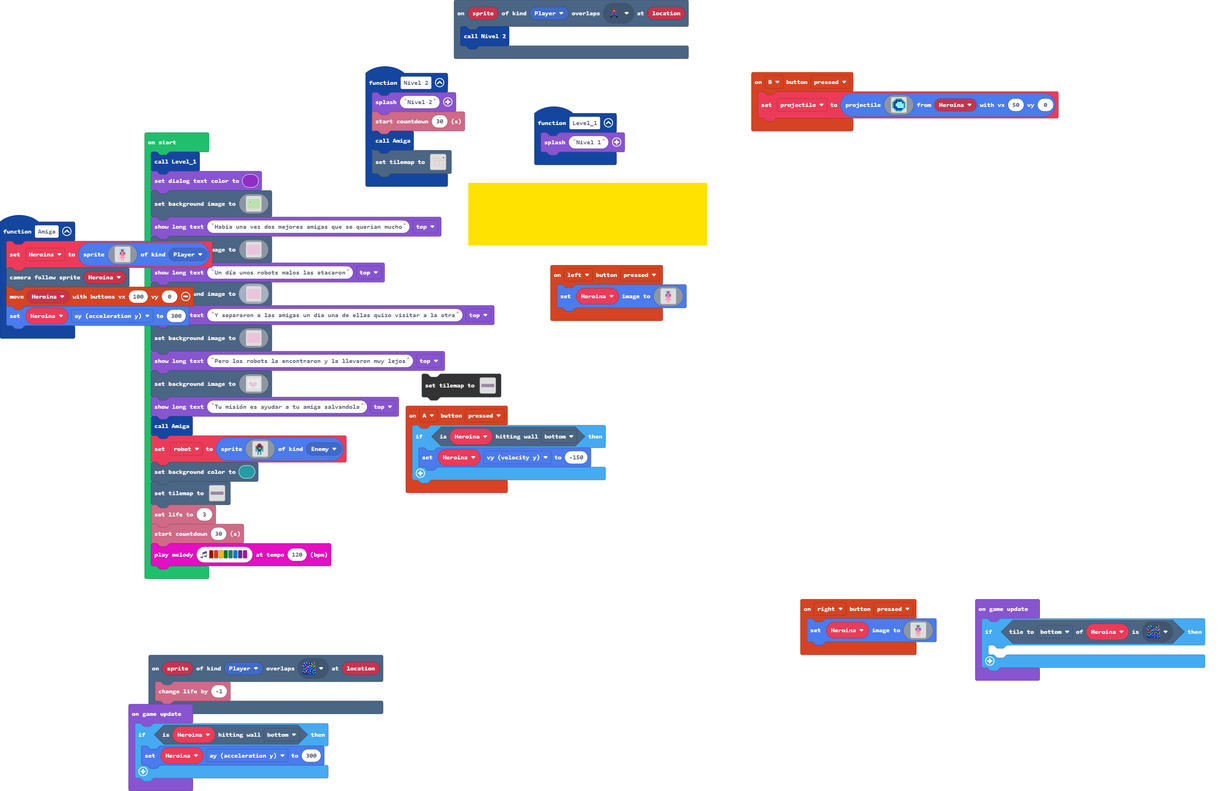
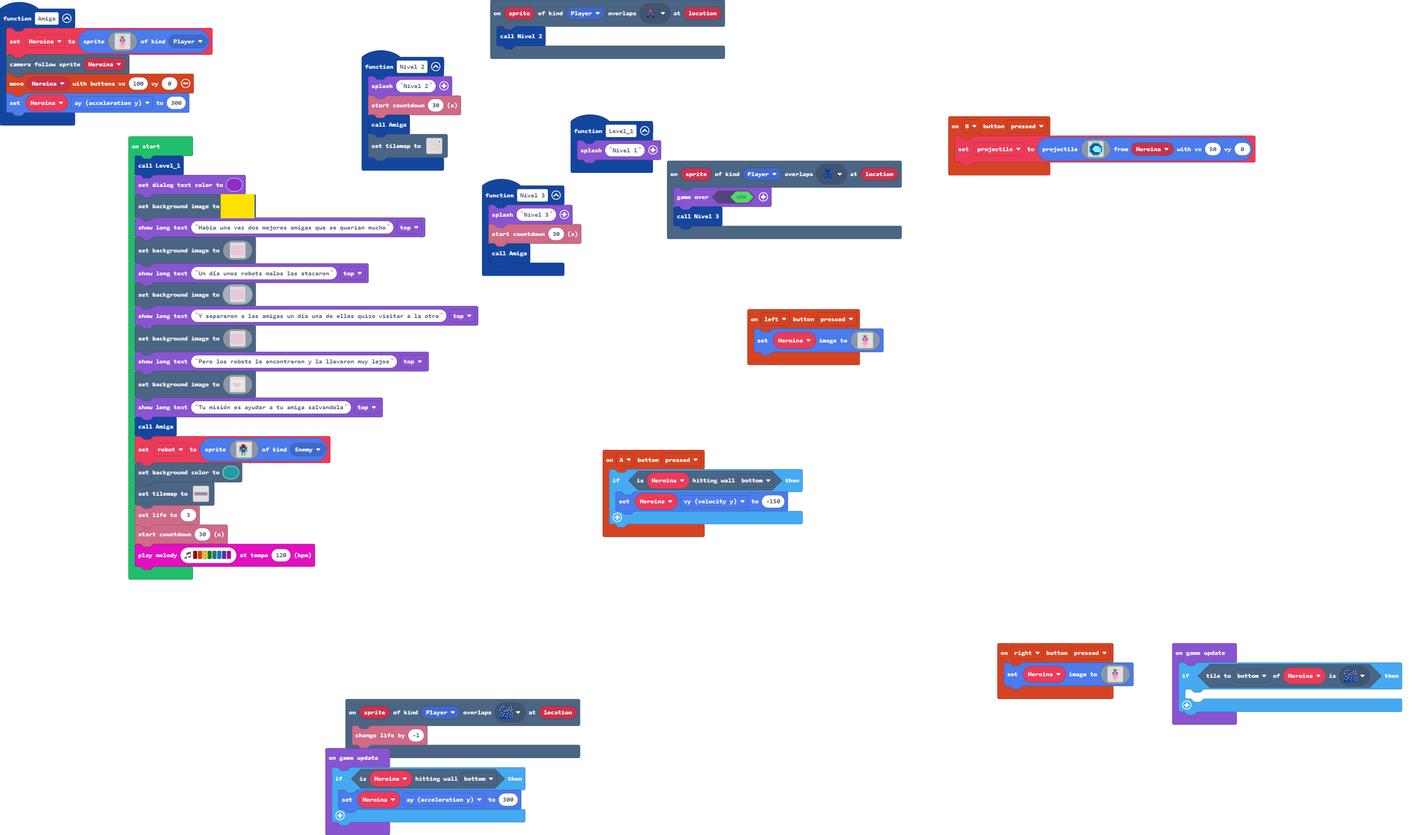
elimine y puse bloques

Changed region(s): [[0.0, 0.0, 0.9033, 0.7439], [0.0934, 0.8059, 0.4049, 1.0], [0.6541, 0.7439, 0.9967, 0.8679]]

diff --git a/main.ts b/main.ts
@@ -4,6 +4,7 @@ namespace SpriteKind {
 }
 scene.onOverlapTile(SpriteKind.Player, myTiles.tile2, function (sprite, location) {
     game.over(true)
+    Nivel_3()
 })
 scene.onOverlapTile(SpriteKind.Player, myTiles.tile3, function (sprite, location) {
     Nivel_2()
@@ -141,6 +142,11 @@ function Nivel_2 () {
         . . . . . . . . . . . . . . . . 
         `, [myTiles.transparency16,sprites.castle.tilePath5,myTiles.tile2], TileScale.Sixteen))
 }
+function Nivel_3 () {
+    game.splash("Nivel 3")
+    info.startCountdown(30)
+    Amiga()
+}
 let Heroina: Sprite = null
 let projectile: Sprite = null
 Level_1()
@@ -198,63 +204,63 @@ scene.setBackgroundImage(img`
     7 7 7 7 7 7 7 7 7 7 7 7 7 7 7 9 9 9 9 9 7 7 7 7 7 7 7 7 7 7 7 7 4 4 4 4 4 4 4 4 4 4 4 7 7 7 7 7 7 7 9 9 9 9 9 9 9 9 9 7 7 7 7 7 7 7 7 7 7 7 7 7 7 7 7 7 7 7 7 7 7 7 7 7 7 7 7 7 7 7 7 7 7 7 7 7 7 7 7 7 7 7 7 7 7 7 7 7 7 7 7 7 7 7 7 7 7 7 7 7 7 7 7 7 7 7 7 7 7 7 7 7 7 7 7 7 7 7 7 7 7 7 7 7 7 7 7 7 7 7 7 7 7 7 7 7 7 7 7 7 
     7 7 7 7 7 7 7 7 7 7 7 7 7 7 7 9 9 9 9 9 7 7 7 7 7 7 7 7 7 7 7 7 4 4 4 4 4 4 4 4 4 4 4 7 7 7 7 7 7 7 7 7 7 7 9 9 9 9 9 7 7 7 7 7 7 7 7 7 7 7 7 7 7 7 7 7 7 7 7 7 7 7 7 7 7 7 7 7 7 7 7 7 7 7 7 7 7 7 7 7 7 7 7 7 7 7 7 7 7 7 7 7 7 7 7 7 7 7 7 7 7 7 7 7 7 7 7 7 7 7 7 7 7 7 7 7 7 7 7 7 7 7 7 7 7 7 7 7 7 7 7 7 7 7 7 7 7 7 7 7 
     7 7 7 7 7 7 7 7 7 7 7 7 7 7 7 9 9 9 9 9 7 7 7 7 7 7 7 7 7 7 7 7 4 4 4 4 4 4 4 4 4 4 4 7 7 7 7 7 7 7 7 7 7 7 9 9 9 9 9 7 7 7 7 7 7 7 7 7 7 7 7 7 7 7 7 7 7 7 7 7 7 7 7 7 7 7 7 7 7 7 7 7 7 7 7 7 7 7 7 7 7 7 7 7 7 7 7 7 7 7 7 7 7 7 7 7 7 7 7 7 7 7 7 7 7 7 7 7 7 7 7 7 7 7 7 7 7 7 7 7 7 7 7 7 7 7 7 7 7 7 7 7 7 7 7 7 7 7 7 7 
-    7 7 7 7 7 7 7 7 7 7 7 7 7 7 7 9 9 9 9 9 7 7 7 7 7 7 7 7 7 7 7 7 3 3 3 3 3 3 3 3 3 3 3 7 7 7 7 7 7 7 7 7 7 7 9 9 9 9 9 7 7 7 7 7 7 7 7 7 7 7 7 7 7 7 7 7 7 7 7 7 7 7 7 7 7 7 7 7 7 7 7 7 7 7 7 7 7 7 7 7 7 7 7 7 7 7 7 7 7 7 7 7 7 7 7 7 7 7 7 7 7 7 7 7 7 7 7 7 7 7 7 7 7 7 7 7 7 7 7 7 7 7 7 7 7 7 7 7 7 7 7 7 7 7 7 7 7 7 7 7 
-    7 7 7 7 7 7 7 7 7 7 7 7 7 7 7 7 7 7 7 7 7 7 7 7 7 7 7 7 7 7 7 7 3 3 3 3 3 3 3 3 3 3 3 7 7 7 7 7 7 7 7 7 7 7 9 9 9 9 9 7 7 7 7 7 7 7 7 7 7 7 7 7 7 7 7 7 7 7 7 7 7 7 7 7 7 7 7 7 7 7 7 7 7 7 7 7 7 7 7 7 7 7 7 7 7 7 7 7 7 7 7 7 7 7 7 7 7 7 7 7 7 7 7 7 7 7 7 7 7 7 7 7 7 7 7 7 7 7 7 7 7 7 7 7 7 7 7 7 7 7 7 7 7 7 7 7 7 7 7 7 
-    7 7 7 7 7 7 7 7 7 7 7 7 7 7 7 7 7 7 7 7 7 7 7 7 7 7 7 7 7 7 7 7 3 3 3 3 3 3 3 3 3 3 3 7 7 7 7 7 7 7 7 7 7 7 7 7 7 7 7 7 7 7 7 7 7 7 7 7 7 7 7 7 7 7 7 7 7 7 7 7 7 7 7 7 7 7 7 7 7 7 7 7 7 7 7 7 7 7 7 7 7 7 7 7 7 7 7 7 7 7 7 7 7 7 7 7 7 7 7 7 7 7 7 7 7 7 7 7 7 7 7 7 7 7 7 7 7 7 7 7 7 7 7 7 7 7 7 7 7 7 7 7 7 7 7 7 7 7 7 7 
-    7 7 7 7 7 7 7 7 7 7 7 7 7 7 7 7 7 7 7 7 7 7 7 7 7 7 7 7 7 7 7 7 3 3 3 3 3 3 3 3 3 3 3 7 7 7 7 7 7 7 7 7 7 7 7 7 7 7 7 7 7 7 7 7 7 7 7 7 7 7 7 7 7 7 7 7 7 7 7 7 7 7 7 7 7 7 7 7 7 7 7 7 7 7 7 7 7 7 7 7 7 7 7 7 7 7 7 7 7 7 7 7 7 7 7 7 7 7 7 7 7 7 7 7 7 7 7 7 7 7 7 7 7 7 7 7 7 7 7 7 7 7 7 7 7 7 7 7 7 7 7 7 7 7 7 7 7 7 7 7 
-    7 7 7 7 7 7 7 7 7 7 7 7 7 7 7 7 7 7 7 7 7 7 7 7 7 7 7 7 7 7 7 7 3 3 3 3 3 3 3 3 3 3 3 7 7 7 7 7 7 7 7 7 7 7 7 7 7 7 7 7 7 7 7 7 7 7 7 7 7 7 7 7 7 7 7 7 7 7 7 7 7 7 7 7 7 7 7 7 7 7 7 7 7 7 7 7 7 7 7 7 7 7 7 7 7 7 7 7 7 7 7 7 7 7 7 7 7 7 7 7 7 7 7 7 7 7 7 7 7 7 7 7 7 7 7 7 7 7 7 7 7 7 7 7 7 7 7 7 7 7 7 7 7 7 7 7 7 7 7 7 
-    7 7 7 7 7 7 7 7 7 7 7 7 7 7 7 7 7 7 7 7 7 7 7 7 7 7 7 7 7 7 7 7 3 3 3 3 3 3 3 3 3 3 3 7 7 7 7 7 7 7 7 7 7 7 7 7 7 7 7 7 7 7 7 7 7 7 7 7 7 7 7 7 7 7 7 7 7 7 7 7 7 7 7 7 7 7 7 7 7 7 7 7 7 7 7 7 7 7 7 7 7 7 7 7 7 7 7 7 7 7 7 7 7 7 7 7 7 7 7 7 7 7 7 7 7 7 7 7 7 7 7 7 7 7 7 7 7 7 7 7 7 7 7 7 7 7 7 7 7 7 7 7 7 7 7 7 7 7 7 7 
-    7 7 7 7 7 7 7 7 7 7 7 7 7 7 7 7 7 7 7 7 7 7 7 7 7 7 7 7 7 7 7 7 3 3 3 3 3 3 3 3 3 3 3 7 7 7 7 7 7 7 7 7 7 7 7 7 7 7 7 7 7 7 7 7 7 7 7 7 7 7 7 7 7 7 7 7 7 7 7 7 7 7 7 7 7 7 7 7 7 7 7 7 7 7 7 7 7 7 7 7 7 7 7 7 7 7 7 7 7 7 7 7 7 7 7 7 7 7 7 7 7 7 7 7 7 7 7 7 7 7 7 7 7 7 7 7 7 7 7 7 7 7 7 7 7 7 7 7 7 7 7 7 7 7 7 7 7 7 7 7 
-    7 7 7 7 7 7 7 7 7 7 7 7 7 7 7 7 7 7 7 7 7 7 7 7 7 7 7 7 7 7 7 7 3 3 3 3 3 3 3 3 3 3 3 7 7 7 7 7 7 7 7 7 7 7 7 7 7 7 7 7 7 7 7 7 7 7 7 7 7 7 7 7 7 7 7 7 7 7 7 7 7 7 7 7 7 7 7 7 7 7 7 7 7 7 7 7 7 7 7 7 7 7 7 7 7 7 7 7 7 7 7 7 7 7 7 7 7 7 7 7 7 7 7 7 7 7 7 7 7 7 7 7 7 7 7 7 7 7 7 7 7 7 7 7 7 7 7 7 7 7 7 7 7 7 7 7 7 7 7 7 
-    7 7 7 7 7 7 7 7 7 7 7 7 7 7 7 7 7 7 7 7 7 7 7 7 7 7 7 7 7 7 7 7 3 3 3 3 3 3 3 3 3 3 3 7 7 7 7 7 7 7 7 7 7 7 7 7 7 7 7 7 7 7 7 7 7 7 7 7 7 7 7 7 7 7 7 7 7 7 7 7 7 7 7 7 7 7 7 7 7 7 7 7 7 7 7 7 7 7 7 7 7 7 7 7 7 7 7 7 7 7 7 7 7 7 7 7 7 7 7 7 7 7 7 7 7 7 7 7 7 7 7 7 7 7 7 7 7 7 7 7 7 7 7 7 7 7 7 7 7 7 7 7 7 7 7 7 7 7 7 7 
-    7 7 7 7 7 7 7 7 7 7 7 7 7 7 7 7 7 7 7 7 7 7 7 7 7 7 7 7 7 7 7 7 3 3 3 3 3 3 3 3 3 3 3 7 7 7 7 7 7 7 7 7 7 7 7 7 7 7 7 7 7 7 7 7 7 7 7 7 7 7 7 7 7 7 7 7 7 7 7 7 7 7 7 7 7 7 7 7 7 7 7 7 7 7 7 7 7 7 7 7 7 7 7 7 7 7 7 7 7 7 7 7 7 7 7 7 7 7 7 7 7 7 7 7 7 7 7 7 7 7 7 7 7 7 7 7 7 7 7 7 7 7 7 7 7 7 7 7 7 7 7 7 7 7 7 7 7 7 7 7 
-    7 7 7 7 7 7 7 7 7 7 7 7 7 7 7 7 7 7 7 7 7 7 7 7 7 7 7 7 7 7 7 7 3 3 3 3 3 3 3 3 3 3 3 7 7 7 7 7 7 7 7 7 7 7 7 7 7 7 7 7 7 7 7 7 7 7 7 7 7 7 7 7 7 7 7 7 7 7 7 7 7 7 7 7 7 7 7 7 7 7 7 7 7 7 7 7 7 7 7 7 7 7 7 7 7 7 7 7 7 7 7 7 7 7 7 7 7 7 7 7 7 7 7 7 7 7 7 7 7 7 7 7 7 7 7 7 7 7 7 7 7 7 7 7 7 7 7 7 7 7 7 7 7 7 7 7 7 7 7 7 
-    7 7 7 7 7 7 7 7 7 7 7 7 7 7 7 7 7 7 7 7 7 7 7 7 7 7 7 7 7 7 7 7 3 3 3 3 3 3 3 3 3 3 3 7 7 7 7 7 7 7 7 7 7 7 7 7 7 7 7 7 7 7 7 7 7 7 7 7 7 7 7 7 7 7 7 7 7 7 7 7 7 7 7 7 7 7 7 7 7 7 7 7 7 7 7 7 7 7 7 7 7 7 7 7 7 7 7 7 7 7 7 7 7 7 7 7 7 7 7 7 7 7 7 7 7 7 7 7 7 7 7 7 7 7 7 7 7 7 7 7 7 7 7 7 7 7 7 7 7 7 7 7 7 7 7 7 7 7 7 7 
-    7 7 7 7 7 7 7 7 7 7 7 7 7 7 7 7 7 7 7 7 7 7 7 7 7 7 7 7 7 7 7 7 3 3 3 3 3 3 3 3 3 3 3 7 7 7 7 7 7 7 7 7 7 7 7 7 7 7 7 7 7 7 7 7 7 7 7 7 7 7 7 7 7 7 7 7 7 7 7 7 7 7 7 7 7 7 7 7 7 7 7 7 7 7 7 7 7 7 7 7 7 7 7 7 7 7 7 7 7 7 7 7 7 7 7 7 7 7 7 7 7 7 7 7 7 7 7 7 7 7 7 7 7 7 7 7 7 7 7 7 7 7 7 7 7 7 7 7 7 7 7 7 7 7 7 7 7 7 7 7 
-    7 7 7 7 7 7 7 7 7 7 7 7 7 7 7 7 7 7 7 7 7 7 7 7 7 7 7 7 7 7 7 7 3 3 3 3 3 3 3 3 3 3 3 7 7 7 7 7 7 7 7 7 7 7 7 7 7 7 7 7 7 7 7 7 7 7 7 7 7 7 7 7 7 7 7 7 7 7 7 7 7 7 7 7 7 7 7 7 7 7 7 7 7 7 7 7 7 7 7 7 7 7 7 7 7 7 7 7 7 7 7 7 7 7 7 7 7 7 7 7 7 7 7 7 7 7 7 7 7 7 7 7 7 7 7 7 7 7 7 7 7 7 7 7 7 7 7 7 7 7 7 7 7 7 7 7 7 7 7 7 
-    7 7 7 7 7 7 7 7 7 7 7 7 7 7 7 7 7 7 7 7 7 7 7 7 7 7 7 7 7 7 7 7 3 3 3 3 3 3 3 3 3 3 3 7 7 7 7 7 7 7 7 7 7 7 7 7 7 7 7 7 7 7 7 7 7 7 7 7 7 7 7 7 7 7 7 7 7 7 7 7 7 7 7 7 7 7 7 7 7 7 7 7 7 7 7 7 7 7 7 7 7 7 7 7 7 7 7 7 7 7 7 7 7 7 7 7 7 7 7 7 7 7 7 7 7 7 7 7 7 7 7 7 7 7 7 7 7 7 7 7 7 7 7 7 7 7 7 7 7 7 7 7 7 7 7 7 7 7 7 7 
-    7 7 7 7 7 7 7 7 7 7 7 7 7 7 7 7 7 7 7 7 7 7 7 7 7 7 7 7 7 7 7 7 3 3 3 3 3 3 3 3 3 3 3 7 7 7 7 7 7 7 7 7 7 7 7 7 7 7 7 7 7 7 7 7 7 7 7 7 7 7 7 7 7 7 7 7 7 7 7 7 7 7 7 7 7 7 7 7 7 7 7 7 7 7 7 7 7 7 7 7 7 7 7 7 7 7 7 7 7 7 7 7 7 7 7 7 7 7 7 7 7 7 7 7 7 7 7 7 7 7 7 7 7 7 7 7 7 7 7 7 7 7 7 7 7 7 7 7 7 7 7 7 7 7 7 7 7 7 7 7 
-    7 7 7 7 7 7 7 7 7 7 7 7 7 7 7 7 7 7 7 7 7 7 7 7 7 7 7 7 7 7 7 7 3 3 3 3 3 3 3 3 3 3 3 7 7 7 7 7 7 7 7 7 7 7 7 7 7 7 7 7 7 7 7 7 7 7 7 7 7 7 7 7 7 7 7 7 7 7 7 7 7 7 7 7 7 7 7 7 7 7 7 7 7 7 7 7 7 7 7 7 7 7 7 7 7 7 7 7 7 7 7 7 7 7 7 7 7 7 7 7 7 7 7 7 7 7 7 7 7 7 7 7 7 7 7 7 7 7 7 7 7 7 7 7 7 7 7 7 7 7 7 7 7 7 7 7 7 7 7 7 
-    7 7 7 7 7 7 7 7 7 7 7 7 7 7 7 7 7 7 7 7 7 7 7 7 7 7 7 7 7 7 7 7 3 3 3 3 3 3 3 3 3 3 3 7 7 7 7 7 7 7 7 7 7 7 7 7 7 7 7 7 7 7 7 7 7 7 7 7 7 7 7 7 7 7 7 7 7 7 7 7 7 7 7 7 7 7 7 7 7 7 7 7 7 7 7 7 7 7 7 7 7 7 7 7 7 7 7 7 7 7 7 7 7 7 7 7 7 7 7 7 7 7 7 7 7 7 7 7 7 7 7 7 7 7 7 7 7 7 7 7 7 7 7 7 7 7 7 7 7 7 7 7 7 7 7 7 7 7 7 7 
-    7 7 7 7 7 7 7 7 7 7 7 7 7 7 7 7 7 7 7 7 7 7 7 7 7 7 7 7 7 7 7 7 3 3 3 3 3 3 3 3 3 3 3 7 7 7 7 7 7 7 7 7 7 7 7 7 7 7 7 7 7 7 7 7 7 7 7 7 7 7 7 7 7 7 7 7 7 7 7 7 7 7 7 7 7 7 7 7 7 7 7 7 7 7 7 7 7 7 7 7 7 7 7 7 7 7 7 7 7 7 7 7 7 7 7 7 7 7 7 7 7 7 7 7 7 7 7 7 7 7 7 7 7 7 7 7 7 7 7 7 7 7 7 7 7 7 7 7 7 7 7 7 7 7 7 7 7 7 7 7 
-    7 7 7 7 7 7 7 7 7 7 7 7 7 7 7 7 7 7 7 7 7 7 7 7 7 7 7 7 7 7 7 7 3 3 3 3 3 3 3 3 3 3 3 7 7 7 7 7 7 7 7 7 7 7 7 7 7 7 7 7 7 7 7 7 7 7 7 7 7 7 7 7 7 7 7 7 7 7 7 7 7 7 7 7 7 7 7 7 7 7 7 7 7 7 7 7 7 7 7 7 7 7 7 7 7 7 7 7 7 7 7 7 7 7 7 7 7 7 7 7 7 7 7 7 7 7 7 7 7 7 7 7 7 7 7 7 7 7 7 7 7 7 7 7 7 7 7 7 7 7 7 7 7 7 7 7 7 7 7 7 
-    7 7 7 7 7 7 7 7 7 7 7 7 7 7 7 7 7 7 7 7 7 7 7 7 7 7 7 7 7 7 7 7 3 3 3 3 3 3 3 3 3 3 3 7 7 7 7 7 7 7 7 7 7 7 7 7 7 7 7 7 7 7 7 7 7 7 7 7 7 7 7 7 7 7 7 7 7 7 7 7 7 7 7 7 7 7 7 7 7 7 7 7 7 7 7 7 7 7 7 7 7 7 7 7 7 7 7 7 7 7 7 7 7 7 7 7 7 7 7 7 7 7 7 7 7 7 7 7 7 7 7 7 7 7 7 7 7 7 7 7 7 7 7 7 7 7 7 7 7 7 7 7 7 7 7 7 7 7 7 7 
-    7 7 7 7 7 7 7 7 7 7 7 7 7 7 7 7 7 7 7 7 7 7 7 7 7 7 7 7 7 7 7 7 3 3 3 3 3 3 3 3 3 3 3 7 7 7 7 7 7 7 7 7 7 7 7 7 7 7 7 7 7 7 7 7 7 7 7 7 7 7 7 7 7 7 7 7 7 7 7 7 7 7 7 7 7 7 7 7 7 7 7 7 7 7 7 7 7 7 7 7 7 7 7 7 7 7 7 7 7 7 7 7 7 7 7 7 7 7 7 7 7 7 7 7 7 7 7 7 7 7 7 7 7 7 7 7 7 7 7 7 7 7 7 7 7 7 7 7 7 7 7 7 7 7 7 7 7 7 7 7 
-    7 7 7 7 7 7 7 7 7 7 7 7 7 7 7 7 7 7 7 7 7 7 7 7 7 7 7 7 7 7 7 7 3 3 3 3 3 3 3 3 3 3 3 7 7 7 7 7 7 7 7 7 7 7 7 7 7 7 7 7 7 7 7 7 7 7 7 7 7 7 7 7 7 7 7 7 7 7 7 7 7 7 7 7 7 7 7 7 7 7 7 7 7 7 7 7 7 7 7 7 7 7 7 7 7 7 7 7 7 7 7 7 7 7 7 7 7 7 7 7 7 7 7 7 7 7 7 7 7 7 7 7 7 7 7 7 7 7 7 7 7 7 7 7 7 7 7 7 7 7 7 7 7 7 7 7 7 7 7 7 
-    7 7 7 7 7 7 7 7 7 7 7 7 7 7 7 7 7 7 7 7 7 7 7 7 7 7 7 7 7 7 7 7 3 3 3 3 3 3 3 3 3 3 3 7 7 7 7 7 7 7 7 7 7 7 7 7 7 7 7 7 7 7 7 7 7 7 7 7 7 7 7 7 7 7 7 7 7 7 7 7 7 7 7 7 7 7 7 7 7 7 7 7 7 7 7 7 7 7 7 7 7 7 7 7 7 7 7 7 7 7 7 7 7 7 7 7 7 7 7 7 7 7 7 7 7 7 7 7 7 7 7 7 7 7 7 7 7 7 7 7 7 7 7 7 7 7 7 7 7 7 7 7 7 7 7 7 7 7 7 7 
-    7 7 7 7 7 7 7 7 7 7 7 7 7 7 7 7 7 7 7 7 7 7 7 7 7 7 7 7 7 7 7 7 7 7 7 7 7 7 7 7 7 7 7 7 7 7 7 7 7 7 7 7 7 7 7 7 7 7 7 7 7 7 7 7 7 7 7 7 7 7 7 7 7 7 7 7 7 7 7 7 7 7 7 7 7 7 7 7 7 7 7 7 7 7 7 7 7 7 7 7 7 7 7 7 7 7 7 7 7 7 7 7 7 7 7 7 7 7 7 7 7 7 7 7 7 7 7 7 7 7 7 7 7 7 7 7 7 7 7 7 7 7 7 7 7 7 7 7 7 7 7 7 7 7 7 7 7 7 7 7 
-    7 7 7 7 7 7 7 7 7 7 7 7 7 7 7 7 7 7 7 7 7 7 7 7 7 7 7 7 7 7 7 7 7 7 7 7 7 7 7 7 7 7 7 7 7 7 7 7 7 7 7 7 7 7 7 7 7 7 7 7 7 7 7 7 7 7 7 7 7 7 7 7 7 7 7 7 7 7 7 7 7 7 7 7 7 7 7 7 7 7 7 7 7 7 7 7 7 7 7 7 7 7 7 7 7 7 7 7 7 7 7 7 7 7 7 7 7 7 7 7 7 7 7 7 7 7 7 7 7 7 7 7 7 7 7 7 7 7 7 7 7 7 7 7 7 7 7 7 7 7 7 7 7 7 7 7 7 7 7 7 
-    7 7 7 7 7 7 7 7 7 7 7 7 7 7 7 7 7 7 7 7 7 7 7 7 7 7 7 7 7 7 7 7 7 7 7 7 7 7 7 7 7 7 7 7 7 7 7 7 7 7 7 7 7 7 7 7 7 7 7 7 7 7 7 7 7 7 7 7 7 7 7 7 7 7 7 7 7 7 7 7 7 7 7 7 7 7 7 7 7 7 7 7 7 7 7 7 7 7 7 7 7 7 7 7 7 7 7 7 7 7 7 7 7 7 7 7 7 7 7 7 7 7 7 7 7 7 7 7 7 7 7 7 7 7 7 7 7 7 7 7 7 7 7 7 7 7 7 7 7 7 7 7 7 7 7 7 7 7 7 7 
-    7 7 7 7 7 7 7 7 7 7 7 7 7 7 7 7 7 7 7 7 7 7 7 7 7 7 7 7 7 7 7 7 7 7 7 7 7 7 7 7 7 7 7 7 7 7 7 7 7 7 7 7 7 7 7 7 7 7 7 7 7 7 7 7 7 7 7 7 7 7 7 7 7 7 7 7 7 7 7 7 7 7 7 7 7 7 7 7 7 7 7 7 7 7 7 7 7 7 7 7 7 7 7 7 7 7 7 7 7 7 7 7 7 7 7 7 7 7 7 7 7 7 7 7 7 7 7 7 7 7 7 7 7 7 7 7 7 7 7 7 7 7 7 7 7 7 7 7 7 7 7 7 7 7 7 7 7 7 7 7 
-    7 7 7 7 7 7 7 7 7 7 7 7 7 7 7 7 7 7 7 7 7 7 7 7 7 7 7 7 7 7 7 7 7 7 7 7 7 7 7 7 7 7 7 7 7 7 7 7 7 7 7 7 7 7 7 7 7 7 7 7 7 7 7 7 7 7 7 7 7 7 7 7 7 7 7 7 7 7 7 7 7 7 7 7 7 7 7 7 7 7 7 7 7 7 7 7 7 7 7 7 7 7 7 7 7 7 7 7 7 7 7 7 7 7 7 7 7 7 7 7 7 7 7 7 7 7 7 7 7 7 7 7 7 7 7 7 7 7 7 7 7 7 7 7 7 7 7 7 7 7 7 7 7 7 7 7 7 7 7 7 
-    7 7 7 7 7 7 7 7 7 7 7 7 7 7 7 7 7 7 7 7 7 7 7 7 7 7 7 7 7 7 7 7 7 7 7 7 7 7 7 7 7 7 7 7 7 7 7 7 7 7 7 7 7 7 7 7 7 7 7 7 7 7 7 7 7 7 7 7 7 7 7 7 7 7 7 7 7 7 7 7 7 7 7 7 7 7 7 7 7 7 7 7 7 7 7 7 7 7 7 7 7 7 7 7 7 7 7 7 7 7 7 7 7 7 7 7 7 7 7 7 7 7 7 7 7 7 7 7 7 7 7 7 7 7 7 7 7 7 7 7 7 7 7 7 7 7 7 7 7 7 7 7 7 7 7 7 7 7 7 7 
-    7 7 7 7 7 7 7 7 7 7 7 7 7 7 7 7 7 7 7 7 7 7 7 7 7 7 7 7 7 7 7 7 7 7 7 7 7 7 7 7 7 7 7 7 7 7 7 7 7 7 7 7 7 7 7 7 7 7 7 7 7 7 7 7 7 7 7 7 7 7 7 7 7 7 7 7 7 7 7 7 7 7 7 7 7 7 7 7 7 7 7 7 7 7 7 7 7 7 7 7 7 7 7 7 7 7 7 7 7 7 7 7 7 7 7 7 7 7 7 7 7 7 7 7 7 7 7 7 7 7 7 7 7 7 7 7 7 7 7 7 7 7 7 7 7 7 7 7 7 7 7 7 7 7 7 7 7 7 7 7 
-    7 7 7 7 7 7 7 7 7 7 7 7 7 7 7 7 7 7 7 7 7 7 7 7 7 7 7 7 7 7 7 7 7 7 7 7 7 7 7 7 7 7 7 7 7 7 7 7 7 7 7 7 7 7 7 7 7 7 7 7 7 7 7 7 7 7 7 7 7 7 7 7 7 7 7 7 7 7 7 7 7 7 7 7 7 7 7 7 7 7 7 7 7 7 7 7 7 7 7 7 7 7 7 7 7 7 7 7 7 7 7 7 7 7 7 7 7 7 7 7 7 7 7 7 7 7 7 7 7 7 7 7 7 7 7 7 7 7 7 7 7 7 7 7 7 7 7 7 7 7 7 7 7 7 7 7 7 7 7 7 
-    7 7 7 7 7 7 7 7 7 7 7 7 7 7 7 7 7 7 7 7 7 7 7 7 7 7 7 7 7 7 7 7 7 7 7 7 7 7 7 7 7 7 7 7 7 7 7 7 7 7 7 7 7 7 7 7 7 7 7 7 7 7 7 7 7 7 7 7 7 7 7 7 7 7 7 7 7 7 7 7 7 7 7 7 7 7 7 7 7 7 7 7 7 7 7 7 7 7 7 7 7 7 7 7 7 7 7 7 7 7 7 7 7 7 7 7 7 7 7 7 7 7 7 7 7 7 7 7 7 7 7 7 7 7 7 7 7 7 7 7 7 7 7 7 7 7 7 7 7 7 7 7 7 7 7 7 7 7 7 7 
-    7 7 7 7 7 7 7 7 7 7 7 7 7 7 7 7 7 7 7 7 7 7 7 7 7 7 7 7 7 7 7 7 7 7 7 7 7 7 7 7 7 7 7 7 7 7 7 7 7 7 7 7 7 7 7 7 7 7 7 7 7 7 7 7 7 7 7 7 7 7 7 7 7 7 7 7 7 7 7 7 7 7 7 7 7 7 7 7 7 7 7 7 7 7 7 7 7 7 7 7 7 7 7 7 7 7 7 7 7 7 7 7 7 7 7 7 7 7 7 7 7 7 7 7 7 7 7 7 7 7 7 7 7 7 7 7 7 7 7 7 7 7 7 7 7 7 7 7 7 7 7 7 7 7 7 7 7 7 7 7 
-    7 7 7 7 7 7 7 7 7 7 7 7 7 7 7 7 7 7 7 7 7 7 7 7 7 7 7 7 7 7 7 7 7 7 7 7 7 7 7 7 7 7 7 7 7 7 7 7 7 7 7 7 7 7 7 7 7 7 7 7 7 7 7 7 7 7 7 7 7 7 7 7 7 7 7 7 7 7 7 7 7 7 7 7 7 7 7 7 7 7 7 7 7 7 7 7 7 7 7 7 7 7 7 7 7 7 7 7 7 7 7 7 7 7 7 7 7 7 7 7 7 7 7 7 7 7 7 7 7 7 7 7 7 7 7 7 7 7 7 7 7 7 7 7 7 7 7 7 7 7 7 7 7 7 7 7 7 7 7 7 
-    7 7 7 7 7 7 7 7 7 7 7 7 7 7 7 7 7 7 7 7 7 7 7 7 7 7 7 7 7 7 7 7 7 7 7 7 7 7 7 7 7 7 7 7 7 7 7 7 7 7 7 7 7 7 7 7 7 7 7 7 7 7 7 7 7 7 7 7 7 7 7 7 7 7 7 7 7 7 7 7 7 7 7 7 7 7 7 7 7 7 7 7 7 7 7 7 7 7 7 7 7 7 7 7 7 7 7 7 7 7 7 7 7 7 7 7 7 7 7 7 7 7 7 7 7 7 7 7 7 7 7 7 7 7 7 7 7 7 7 7 7 7 7 7 7 7 7 7 7 7 7 7 7 7 7 7 7 7 7 7 
-    7 7 7 7 7 7 7 7 7 7 7 7 7 7 7 7 7 7 7 7 7 7 7 7 7 7 7 7 7 7 7 7 7 7 7 7 7 7 7 7 7 7 7 7 7 7 7 7 7 7 7 7 7 7 7 7 7 7 7 7 7 7 7 7 7 7 7 7 7 7 7 7 7 7 7 7 7 7 7 7 7 7 7 7 7 7 7 7 7 7 7 7 7 7 7 7 7 7 7 7 7 7 7 7 7 7 7 7 7 7 7 7 7 7 7 7 7 7 7 7 7 7 7 7 7 7 7 7 7 7 7 7 7 7 7 7 7 7 7 7 7 7 7 7 7 7 7 7 7 7 7 7 7 7 7 7 7 7 7 7 
-    7 7 7 7 7 7 7 7 7 7 7 7 7 7 7 7 7 7 7 7 7 7 7 7 7 7 7 7 7 7 7 7 7 7 7 7 7 7 7 7 7 7 7 7 7 7 7 7 7 7 7 7 7 7 7 7 7 7 7 7 7 7 7 7 7 7 7 7 7 7 7 7 7 7 7 7 7 7 7 7 7 7 7 7 7 7 7 7 7 7 7 7 7 7 7 7 7 7 7 7 7 7 7 7 7 7 7 7 7 7 7 7 7 7 7 7 7 7 7 7 7 7 7 7 7 7 7 7 7 7 7 7 7 7 7 7 7 7 7 7 7 7 7 7 7 7 7 7 7 7 7 7 7 7 7 7 7 7 7 7 
-    7 7 7 7 7 7 7 7 7 7 7 7 7 7 7 7 7 7 7 7 7 7 7 7 7 7 7 7 7 7 7 7 7 7 7 7 7 7 7 7 7 7 7 7 7 7 7 7 7 7 7 7 7 7 7 7 7 7 7 7 7 7 7 7 7 7 7 7 7 7 7 7 7 7 7 7 7 7 7 7 7 7 7 7 7 7 7 7 7 7 7 7 7 7 7 7 7 7 7 7 7 7 7 7 7 7 7 7 7 7 7 7 7 7 7 7 7 7 7 7 7 7 7 7 7 7 7 7 7 7 7 7 7 7 7 7 7 7 7 7 7 7 7 7 7 7 7 7 7 7 7 7 7 7 7 7 7 7 7 7 
-    7 7 7 7 7 7 7 7 7 7 7 7 7 7 7 7 7 7 7 7 7 7 7 7 7 7 7 7 7 7 7 7 7 7 7 7 7 7 7 7 7 7 7 7 7 7 7 7 7 7 7 7 7 7 7 7 7 7 7 7 7 7 7 7 7 7 7 7 7 7 7 7 7 7 7 7 7 7 7 7 7 7 7 7 7 7 7 7 7 7 7 7 7 7 7 7 7 7 7 7 7 7 7 7 7 7 7 7 7 7 7 7 7 7 7 7 7 7 7 7 7 7 7 7 7 7 7 7 7 7 7 7 7 7 7 7 7 7 7 7 7 7 7 7 7 7 7 7 7 7 7 7 7 7 7 7 7 7 7 7 
-    7 7 7 7 7 7 7 7 7 7 7 7 7 7 7 7 7 7 7 7 7 7 7 7 7 7 7 7 7 7 7 7 7 7 7 7 7 7 7 7 7 7 7 7 7 7 7 7 7 7 7 7 7 7 7 7 7 7 7 7 7 7 7 7 7 7 7 7 7 7 7 7 7 7 7 7 7 7 7 7 7 7 7 7 7 7 7 7 7 7 7 7 7 7 7 7 7 7 7 7 7 7 7 7 7 7 7 7 7 7 7 7 7 7 7 7 7 7 7 7 7 7 7 7 7 7 7 7 7 7 7 7 7 7 7 7 7 7 7 7 7 7 7 7 7 7 7 7 7 7 7 7 7 7 7 7 7 7 7 7 
-    7 7 7 7 7 7 7 7 7 7 7 7 7 7 7 7 7 7 7 7 7 7 7 7 7 7 7 7 7 7 7 7 7 7 7 7 7 7 7 7 7 7 7 7 7 7 7 7 7 7 7 7 7 7 7 7 7 7 7 7 7 7 7 7 7 7 7 7 7 7 7 7 7 7 7 7 7 7 7 7 7 7 7 7 7 7 7 7 7 7 7 7 7 7 7 7 7 7 7 7 7 7 7 7 7 7 7 7 7 7 7 7 7 7 7 7 7 7 7 7 7 7 7 7 7 7 7 7 7 7 7 7 7 7 7 7 7 7 7 7 7 7 7 7 7 7 7 7 7 7 7 7 7 7 7 7 7 7 7 7 
-    7 7 7 7 7 7 7 7 7 7 7 7 7 7 7 7 7 7 7 7 7 7 7 7 7 7 7 7 7 7 7 7 7 7 7 7 7 7 7 7 7 7 7 7 7 7 7 7 7 7 7 7 7 7 7 7 7 7 7 7 7 7 7 7 7 7 7 7 7 7 7 7 7 7 7 7 7 7 7 7 7 7 7 7 7 7 7 7 7 7 7 7 7 7 7 7 7 7 7 7 7 7 7 7 7 7 7 7 7 7 7 7 7 7 7 7 7 7 7 7 7 7 7 7 7 7 7 7 7 7 7 7 7 7 7 7 7 7 7 7 7 7 7 7 7 7 7 7 7 7 7 7 7 7 7 7 7 7 7 7 
-    7 7 7 7 7 7 7 7 7 7 7 7 7 7 7 7 7 7 7 7 7 7 7 7 7 7 7 7 7 7 7 7 7 7 7 7 7 7 7 7 7 7 7 7 7 7 7 7 7 7 7 7 7 7 7 7 7 7 7 7 7 7 7 7 7 7 7 7 7 7 7 7 7 7 7 7 7 7 7 7 7 7 7 7 7 7 7 7 7 7 7 7 7 7 7 7 7 7 7 7 7 7 7 7 7 7 7 7 7 7 7 7 7 7 7 7 7 7 7 7 7 7 7 7 7 7 7 7 7 7 7 7 7 7 7 7 7 7 7 7 7 7 7 7 7 7 7 7 7 7 7 7 7 7 7 7 7 7 7 7 
-    7 7 7 7 7 7 7 7 7 7 7 7 7 7 7 7 7 7 7 7 7 7 7 7 7 7 7 7 7 7 7 7 7 7 7 7 7 7 7 7 7 7 7 7 7 7 7 7 7 7 7 7 7 7 7 7 7 7 7 7 7 7 7 7 7 7 7 7 7 7 7 7 7 7 7 7 7 7 7 7 7 7 7 7 7 7 7 7 7 7 7 7 7 7 7 7 7 7 7 7 7 7 7 7 7 7 7 7 7 7 7 7 7 7 7 7 7 7 7 7 7 7 7 7 7 7 7 7 7 7 7 7 7 7 7 7 7 7 7 7 7 7 7 7 7 7 7 7 7 7 7 7 7 7 7 7 7 7 7 7 
-    7 7 7 7 7 7 7 7 7 7 7 7 7 7 7 7 7 7 7 7 7 7 7 7 7 7 7 7 7 7 7 7 7 7 7 7 7 7 7 7 7 7 7 7 7 7 7 7 7 7 7 7 7 7 7 7 7 7 7 7 7 7 7 7 7 7 7 7 7 7 7 7 7 7 7 7 7 7 7 7 7 7 7 7 7 7 7 7 7 7 7 7 7 7 7 7 7 7 7 7 7 7 7 7 7 7 7 7 7 7 7 7 7 7 7 7 7 7 7 7 7 7 7 7 7 7 7 7 7 7 7 7 7 7 7 7 7 7 7 7 7 7 7 7 7 7 7 7 7 7 7 7 7 7 7 7 7 7 7 7 
-    7 7 7 7 7 7 7 7 7 7 7 7 7 7 7 7 7 7 7 7 7 7 7 7 7 7 7 7 7 7 7 7 7 7 7 7 7 7 7 7 7 7 7 7 7 7 7 7 7 7 7 7 7 7 7 7 7 7 7 7 7 7 7 7 7 7 7 7 7 7 7 7 7 7 7 7 7 7 7 7 7 7 7 7 7 7 7 7 7 7 7 7 7 7 7 7 7 7 7 7 7 7 7 7 7 7 7 7 7 7 7 7 7 7 7 7 7 7 7 7 7 7 7 7 7 7 7 7 7 7 7 7 7 7 7 7 7 7 7 7 7 7 7 7 7 7 7 7 7 7 7 7 7 7 7 7 7 7 7 7 
-    7 7 7 7 7 7 7 7 7 7 7 7 7 7 7 7 7 7 7 7 7 7 7 7 7 7 7 7 7 7 7 7 7 7 7 7 7 7 7 7 7 7 7 7 7 7 7 7 7 7 7 7 7 7 7 7 7 7 7 7 7 7 7 7 7 7 7 7 7 7 7 7 7 7 7 7 7 7 7 7 7 7 7 7 7 7 7 7 7 7 7 7 7 7 7 7 7 7 7 7 7 7 7 7 7 7 7 7 7 7 7 7 7 7 7 7 7 7 7 7 7 7 7 7 7 7 7 7 7 7 7 7 7 7 7 7 7 7 7 7 7 7 7 7 7 7 7 7 7 7 7 7 7 7 7 7 7 7 7 7 
-    7 7 7 7 7 7 7 7 7 7 7 7 7 7 7 7 7 7 7 7 7 7 7 7 7 7 7 7 7 7 7 7 7 7 7 7 7 7 7 7 7 7 7 7 7 7 7 7 7 7 7 7 7 7 7 7 7 7 7 7 7 7 7 7 7 7 7 7 7 7 7 7 7 7 7 7 7 7 7 7 7 7 7 7 7 7 7 7 7 7 7 7 7 7 7 7 7 7 7 7 7 7 7 7 7 7 7 7 7 7 7 7 7 7 7 7 7 7 7 7 7 7 7 7 7 7 7 7 7 7 7 7 7 7 7 7 7 7 7 7 7 7 7 7 7 7 7 7 7 7 7 7 7 7 7 7 7 7 7 7 
-    7 7 7 7 7 7 7 7 7 7 7 7 7 7 7 7 7 7 7 7 7 7 7 7 7 7 7 7 7 7 7 7 7 7 7 7 7 7 7 7 7 7 7 7 7 7 7 7 7 7 7 7 7 7 7 7 7 7 7 7 7 7 7 7 7 7 7 7 7 7 7 7 7 7 7 7 7 7 7 7 7 7 7 7 7 7 7 7 7 7 7 7 7 7 7 7 7 7 7 7 7 7 7 7 7 7 7 7 7 7 7 7 7 7 7 7 7 7 7 7 7 7 7 7 7 7 7 7 7 7 7 7 7 7 7 7 7 7 7 7 7 7 7 7 7 7 7 7 7 7 7 7 7 7 7 7 7 7 7 7 
-    7 7 7 7 7 7 7 7 7 7 7 7 7 7 7 7 7 7 7 7 7 7 7 7 7 7 7 7 7 7 7 7 7 7 7 7 7 7 7 7 7 7 7 7 7 7 7 7 7 7 7 7 7 7 7 7 7 7 7 7 7 7 7 7 7 7 7 7 7 7 7 7 7 7 7 7 7 7 7 7 7 7 7 7 7 7 7 7 7 7 7 7 7 7 7 7 7 7 7 7 7 7 7 7 7 7 7 7 7 7 7 7 7 7 7 7 7 7 7 7 7 7 7 7 7 7 7 7 7 7 7 7 7 7 7 7 7 7 7 7 7 7 7 7 7 7 7 7 7 7 7 7 7 7 7 7 7 7 7 7 
-    7 7 7 7 7 7 7 7 7 7 7 7 7 7 7 7 7 7 7 7 7 7 7 7 7 7 7 7 7 7 7 7 7 7 7 7 7 7 7 7 7 7 7 7 7 7 7 7 7 7 7 7 7 7 7 7 7 7 7 7 7 7 7 7 7 7 7 7 7 7 7 7 7 7 7 7 7 7 7 7 7 7 7 7 7 7 7 7 7 7 7 7 7 7 7 7 7 7 7 7 7 7 7 7 7 7 7 7 7 7 7 7 7 7 7 7 7 7 7 7 7 7 7 7 7 7 7 7 7 7 7 7 7 7 7 7 7 7 7 7 7 7 7 7 7 7 7 7 7 7 7 7 7 7 7 7 7 7 7 7 
-    7 7 7 7 7 7 7 7 7 7 7 7 7 7 7 7 7 7 7 7 7 7 7 7 7 7 7 7 7 7 7 7 7 7 7 7 7 7 7 7 7 7 7 7 7 7 7 7 7 7 7 7 7 7 7 7 7 7 7 7 7 7 7 7 7 7 7 7 7 7 7 7 7 7 7 7 7 7 7 7 7 7 7 7 7 7 7 7 7 7 7 7 7 7 7 7 7 7 7 7 7 7 7 7 7 7 7 7 7 7 7 7 7 7 7 7 7 7 7 7 7 7 7 7 7 7 7 7 7 7 7 7 7 7 7 7 7 7 7 7 7 7 7 7 7 7 7 7 7 7 7 7 7 7 7 7 7 7 7 7 
-    7 7 7 7 7 7 7 7 7 7 7 7 7 7 7 7 7 7 7 7 7 7 7 7 7 7 7 7 7 7 7 7 7 7 7 7 7 7 7 7 7 7 7 7 7 7 7 7 7 7 7 7 7 7 7 7 7 7 7 7 7 7 7 7 7 7 7 7 7 7 7 7 7 7 7 7 7 7 7 7 7 7 7 7 7 7 7 7 7 7 7 7 7 7 7 7 7 7 7 7 7 7 7 7 7 7 7 7 7 7 7 7 7 7 7 7 7 7 7 7 7 7 7 7 7 7 7 7 7 7 7 7 7 7 7 7 7 7 7 7 7 7 7 7 7 7 7 7 7 7 7 7 7 7 7 7 7 7 7 7 
-    7 7 7 7 7 7 7 7 7 7 7 7 7 7 7 7 7 7 7 7 7 7 7 7 7 7 7 7 7 7 7 7 7 7 7 7 7 7 7 7 7 7 7 7 7 7 7 7 7 7 7 7 7 7 7 7 7 7 7 7 7 7 7 7 7 7 7 7 7 7 7 7 7 7 7 7 7 7 7 7 7 7 7 7 7 7 7 7 7 7 7 7 7 7 7 7 7 7 7 7 7 7 7 7 7 7 7 7 7 7 7 7 7 7 7 7 7 7 7 7 7 7 7 7 7 7 7 7 7 7 7 7 7 7 7 7 7 7 7 7 7 7 7 7 7 7 7 7 7 7 7 7 7 7 7 7 7 7 7 7 
-    7 7 7 7 7 7 7 7 7 7 7 7 7 7 7 7 7 7 7 7 7 7 7 7 7 7 7 7 7 7 7 7 7 7 7 7 7 7 7 7 7 7 7 7 7 7 7 7 7 7 7 7 7 7 7 7 7 7 7 7 7 7 7 7 7 7 7 7 7 7 7 7 7 7 7 7 7 7 7 7 7 7 7 7 7 7 7 7 7 7 7 7 7 7 7 7 7 7 7 7 7 7 7 7 7 7 7 7 7 7 7 7 7 7 7 7 7 7 7 7 7 7 7 7 7 7 7 7 7 7 7 7 7 7 7 7 7 7 7 7 7 7 7 7 7 7 7 7 7 7 7 7 7 7 7 7 7 7 7 7 
-    7 7 7 7 7 7 7 7 7 7 7 7 7 7 7 7 7 7 7 7 7 7 7 7 7 7 7 7 7 7 7 7 7 7 7 7 7 7 7 7 7 7 7 7 7 7 7 7 7 7 7 7 7 7 7 7 7 7 7 7 7 7 7 7 7 7 7 7 7 7 7 7 7 7 7 7 7 7 7 7 7 7 7 7 7 7 7 7 7 7 7 7 7 7 7 7 7 7 7 7 7 7 7 7 7 7 7 7 7 7 7 7 7 7 7 7 7 7 7 7 7 7 7 7 7 7 7 7 7 7 7 7 7 7 7 7 7 7 7 7 7 7 7 7 7 7 7 7 7 7 7 7 7 7 7 7 7 7 7 7 
+    7 7 7 7 7 7 7 7 7 7 7 7 a a a a a a a a a a a a a a a a a a a a 3 3 3 3 3 3 3 3 3 3 3 a a a a a a a a a a a a a a a a a a 7 7 7 7 7 7 7 7 7 7 7 7 7 7 7 7 7 7 7 7 7 7 7 7 7 7 7 7 7 7 7 7 7 7 7 7 7 7 7 7 7 7 7 7 7 7 7 7 7 7 7 7 7 7 7 7 7 7 7 7 7 7 7 7 7 7 7 7 7 7 7 7 7 7 7 7 7 7 7 7 7 7 7 7 7 7 7 7 7 7 7 7 7 7 7 7 7 7 7 
+    7 7 7 7 7 7 7 7 7 7 7 7 a a a a a a a a a a a a a a a a a a a a 3 3 3 3 3 3 3 3 3 3 3 a a a a a a a a a a a a a a a a a a 7 7 7 7 7 7 7 7 7 7 7 7 7 7 7 7 7 7 7 7 7 7 7 7 7 7 7 7 7 7 7 7 7 7 7 7 7 7 7 7 7 7 7 7 7 7 7 7 7 7 7 7 7 7 7 7 7 7 7 7 7 7 7 7 7 7 7 7 7 7 7 7 7 7 7 7 7 7 7 7 7 7 7 7 7 7 7 7 7 7 7 7 7 7 7 7 7 7 7 
+    7 7 7 7 7 7 7 7 7 7 7 7 a a a a a a a a a a a a a a a a a a a a 3 3 3 3 3 3 3 3 3 3 3 a a a a a a a a a a a a a a a a a a 7 7 7 7 7 7 7 7 7 7 7 7 7 7 7 7 7 7 7 7 7 7 7 7 7 7 7 7 7 7 7 7 7 7 7 7 7 7 7 7 7 7 7 7 7 7 7 7 7 7 7 7 7 7 7 7 7 7 7 7 7 7 7 7 7 7 7 7 7 7 7 7 7 7 7 7 7 7 7 7 7 7 7 7 7 7 7 7 7 7 7 7 7 7 7 7 7 7 7 
+    7 7 7 7 7 7 7 7 7 7 7 7 a a a a a a a a a a a a a a a a a a a a 3 3 3 3 3 3 3 3 3 3 3 a a a a a a a a a a a a a a a a a a 7 7 7 7 7 7 7 7 7 7 7 7 7 7 7 7 7 7 7 7 7 7 7 7 7 7 7 7 7 7 7 7 7 7 7 7 7 7 7 7 7 7 7 7 7 7 7 7 7 7 7 7 7 7 7 7 7 7 7 7 7 7 7 7 7 7 7 7 7 7 7 7 7 7 7 7 7 7 7 7 7 7 7 7 7 7 7 7 7 7 7 7 7 7 7 7 7 7 7 
+    7 7 7 7 7 7 7 7 7 7 7 7 a a a a a a a a a a a a a a a a a a a a 3 3 3 3 3 3 3 3 3 3 3 a a a a a a a a a a a a a a a a a a 7 7 7 7 7 7 7 7 7 7 7 7 7 7 7 7 7 7 7 7 7 7 7 7 7 7 7 7 7 7 7 7 7 7 7 7 7 7 7 7 7 7 7 7 7 7 7 7 7 7 7 7 7 7 7 7 7 7 7 7 7 7 7 7 7 7 7 7 7 7 7 7 7 7 7 7 7 7 7 7 7 7 7 7 7 7 7 7 7 7 7 7 7 7 7 7 7 7 7 
+    7 7 7 7 7 7 7 7 7 7 7 7 a a a a a a a a a a a a a a a a a a a a 3 3 3 3 3 3 3 3 3 3 3 a a a a a 7 7 7 7 7 a a a a a a a a 7 7 7 7 7 7 7 7 7 7 7 7 7 7 7 7 7 7 7 7 7 7 7 7 7 7 7 7 7 7 7 7 7 7 7 7 7 7 7 7 7 7 7 7 7 7 7 7 7 7 7 7 7 7 7 7 7 7 7 7 7 7 7 7 7 7 7 7 7 7 7 7 7 7 7 7 7 7 7 7 7 7 7 7 7 7 7 7 7 7 7 7 7 7 7 7 7 7 7 
+    7 7 7 7 7 7 7 7 7 7 7 7 a a a a a a a a 7 7 7 7 7 7 7 a a a a a 3 3 3 3 3 3 3 3 3 3 3 a a a a a 7 7 7 7 7 a a a a a a a a 7 7 7 7 7 7 7 7 7 7 7 7 7 7 7 7 7 7 7 7 7 7 7 7 7 7 7 7 7 7 7 7 7 7 7 7 7 7 7 7 7 7 7 7 7 7 7 7 7 7 7 7 7 7 7 7 7 7 7 7 7 7 7 7 7 7 7 7 7 7 7 7 7 7 7 7 7 7 7 7 7 7 7 7 7 7 7 7 7 7 7 7 7 7 7 7 7 7 7 
+    7 7 7 7 7 7 7 7 7 7 7 7 a a a a a a a a 7 7 7 7 7 7 7 a a a a a 3 3 3 3 3 3 3 3 3 3 3 a a a a a 7 7 7 7 7 a a a a a a a a 7 7 7 7 7 7 7 7 7 7 7 7 7 7 7 7 7 7 7 7 7 7 7 7 7 7 7 7 7 7 7 7 7 7 7 7 7 7 7 7 7 7 7 7 7 7 7 7 7 7 7 7 7 7 7 7 7 7 7 7 7 7 7 7 7 7 7 7 7 7 7 7 7 7 7 7 7 7 7 7 7 7 7 7 7 7 7 7 7 7 7 7 7 7 7 7 7 7 7 
+    7 7 7 7 7 7 7 7 7 7 7 7 a a a a a a a a 7 7 7 7 7 7 7 a a a a a 3 3 3 3 3 3 3 3 3 3 3 a a a a a 7 7 7 7 7 a a a a a a a a 7 7 7 7 7 7 7 7 7 7 7 7 7 7 7 7 7 7 7 7 7 7 7 7 7 7 7 7 7 7 7 7 7 7 7 7 7 7 7 7 7 7 7 7 7 7 7 7 7 7 7 7 7 7 7 7 7 7 7 7 7 7 7 7 7 7 7 7 7 7 7 7 7 7 7 7 7 7 7 7 7 7 7 7 7 7 7 7 7 7 7 7 7 7 7 7 7 7 7 
+    7 7 7 7 7 7 7 7 7 7 7 7 a a a a a a a a 7 7 7 7 7 7 7 a a a a a 3 3 3 3 3 3 3 3 3 3 3 a a a a a 7 7 7 7 7 a a a a a a a a 7 7 7 7 7 7 7 7 7 7 7 7 7 7 7 7 7 7 7 7 7 7 7 7 7 7 7 7 7 7 7 7 7 7 7 7 7 7 7 7 7 7 7 7 7 7 7 7 7 7 7 7 7 7 7 7 7 7 7 7 7 7 7 7 7 7 7 7 7 7 7 7 7 7 7 7 7 7 7 7 7 7 7 7 7 7 7 7 7 7 7 7 7 7 7 7 7 7 7 
+    7 7 7 7 7 7 7 7 7 7 7 7 a a a a a a a a 7 7 7 7 7 7 7 a a a a a 3 3 3 3 3 3 3 3 3 3 3 a a a a a 7 7 7 7 7 a a a a a a a a 7 7 7 7 7 7 7 7 7 7 7 7 7 7 7 7 7 7 7 7 7 7 7 7 7 7 7 7 7 7 7 7 7 7 7 7 7 7 7 7 7 7 7 7 7 7 7 7 7 7 7 7 7 7 7 7 7 7 7 7 7 7 7 7 7 7 7 7 7 7 7 7 7 7 7 7 7 7 7 7 7 7 7 7 7 7 7 7 7 7 7 7 7 7 7 7 7 7 7 
+    7 7 7 7 7 7 7 7 7 7 7 7 a a a a a a a a 7 7 7 7 7 7 7 a a a a a 3 3 3 3 3 3 3 3 3 3 3 a a a a a 7 7 7 7 7 a a a a a a a a 7 7 7 7 7 7 7 7 7 7 7 7 7 7 7 7 7 7 7 7 7 7 7 7 7 7 7 7 7 7 7 7 7 7 7 7 7 7 7 7 7 7 7 7 7 7 7 7 7 7 7 7 7 7 7 7 7 7 7 7 7 7 7 7 7 7 7 7 7 7 7 7 7 7 7 7 7 7 7 7 7 7 7 7 7 7 7 7 7 7 7 7 7 7 7 7 7 7 7 
+    7 7 7 7 7 7 7 7 7 7 7 7 a a a a a a a a 7 7 7 7 7 7 7 a a a a a 3 3 3 3 3 3 3 3 3 3 3 a a a a a 7 7 7 7 7 a a a a a a a a 7 7 7 7 7 7 7 7 7 7 7 7 7 7 7 7 7 7 7 7 7 7 7 7 7 7 7 7 7 7 7 7 7 7 7 7 7 7 7 7 7 7 7 7 7 7 7 7 7 7 7 7 7 7 7 7 7 7 7 7 7 7 7 7 7 7 7 7 7 7 7 7 7 7 7 7 7 7 7 7 7 7 7 7 7 7 7 7 7 7 7 7 7 7 7 7 7 7 7 
+    7 7 7 7 7 7 7 7 7 7 7 7 a a a a a a a a 7 7 7 7 7 7 7 a a a a a 3 3 3 3 3 3 3 3 3 3 3 a a a a a 7 7 7 7 7 a a a a a a a a 7 7 7 7 7 7 7 7 7 7 7 7 7 7 7 7 7 7 7 7 7 7 7 7 7 7 7 7 7 7 7 7 7 7 7 7 7 7 7 7 7 7 7 7 7 7 7 7 7 7 7 7 7 7 7 7 7 7 7 7 7 7 7 7 7 7 7 7 7 7 7 7 7 7 7 7 7 7 7 7 7 7 7 7 7 7 7 7 7 7 7 7 7 7 7 7 7 7 7 
+    7 7 7 7 7 7 7 7 7 7 7 7 a a a a a a a a 7 7 7 7 7 7 7 a a a a a 3 3 3 3 3 3 3 3 3 3 3 a a a a a 7 7 7 7 7 a a a a a a a a 7 7 7 7 7 7 7 7 7 7 7 7 7 7 7 7 7 7 7 7 7 7 7 7 7 7 7 7 7 7 7 7 7 7 7 7 7 7 7 7 7 7 7 7 7 7 7 7 7 7 7 7 7 7 7 7 7 7 7 7 7 7 7 7 7 7 7 7 7 7 7 7 7 7 7 7 7 7 7 7 7 7 7 7 7 7 7 7 7 7 7 7 7 7 7 7 7 7 7 
+    7 7 7 7 7 7 7 7 7 7 7 7 a a a a a a a a 7 7 7 7 7 7 7 a a a a a 3 3 3 3 3 3 3 3 3 3 3 a a a a a 7 7 7 7 7 a a a a a a a a 7 7 7 7 7 7 7 7 7 7 7 7 7 7 7 7 7 7 7 7 7 7 7 7 7 7 7 7 7 7 7 7 7 7 7 7 7 7 7 7 7 7 7 7 7 7 7 7 7 7 7 7 7 7 7 7 7 7 7 7 7 7 7 7 7 7 7 7 7 7 7 7 7 7 7 7 7 7 7 7 7 7 7 7 7 7 7 7 7 7 7 7 7 7 7 7 7 7 7 
+    7 7 7 7 7 7 7 7 7 7 7 7 a a a a a a a a 7 7 7 7 7 7 7 a a a a a 3 3 3 3 3 3 3 3 3 3 3 a a a a a 7 7 7 7 7 a a a a a a a a 7 7 7 7 7 7 7 7 7 7 7 7 7 7 7 7 7 7 7 7 7 7 7 7 7 7 7 7 7 7 7 7 7 7 7 7 7 7 7 7 7 7 7 7 7 7 7 7 7 7 7 7 7 7 7 7 7 7 7 7 7 7 7 7 7 7 7 7 7 7 7 7 7 7 7 7 7 7 7 7 7 7 7 7 7 7 7 7 7 7 7 7 7 7 7 7 7 7 7 
+    7 7 7 7 7 7 7 7 7 7 7 7 4 4 4 4 4 4 4 4 7 7 7 7 7 7 7 a a a a a 3 3 3 3 3 3 3 3 3 3 3 a a a a a 7 7 7 7 7 a a a a a a a a 7 7 7 7 7 7 7 7 7 7 7 7 7 7 7 7 7 7 7 7 7 7 7 7 7 7 7 7 7 7 7 7 7 7 7 7 7 7 7 7 7 7 7 7 7 7 7 7 7 7 7 7 7 7 7 7 7 7 7 7 7 7 7 7 7 7 7 7 7 7 7 7 7 7 7 7 7 7 7 7 7 7 7 7 7 7 7 7 7 7 7 7 7 7 7 7 7 7 7 
+    7 7 7 7 7 7 7 7 7 7 7 7 4 4 4 4 4 4 4 4 7 7 7 7 7 7 7 a a a a a 3 3 3 3 3 3 3 3 3 3 3 a a a a a 7 7 7 7 7 4 4 4 4 4 4 4 4 7 7 7 7 7 7 7 7 7 7 7 7 7 7 7 7 7 7 7 7 7 7 7 7 7 7 7 7 7 7 7 7 7 7 7 7 7 7 7 7 7 7 7 7 7 7 7 7 7 7 7 7 7 7 7 7 7 7 7 7 7 7 7 7 7 7 7 7 7 7 7 7 7 7 7 7 7 7 7 7 7 7 7 7 7 7 7 7 7 7 7 7 7 7 7 7 7 7 7 
+    7 7 7 7 7 7 7 7 7 7 7 7 4 4 4 4 4 4 4 4 7 7 7 7 7 7 7 a a a a a 3 3 3 3 3 3 3 3 3 3 3 a a a a a 7 7 7 7 7 4 4 4 4 4 4 4 4 7 7 7 7 7 7 7 7 7 7 7 7 7 7 7 7 7 7 7 7 7 7 7 7 7 7 7 7 7 7 7 7 7 7 7 7 7 7 7 7 7 7 7 7 7 7 7 7 7 7 7 7 7 7 7 7 7 7 7 7 7 7 7 7 7 7 7 7 7 7 7 7 7 7 7 7 7 7 7 7 7 7 7 7 7 7 7 7 7 7 7 7 7 7 7 7 7 7 7 
+    7 7 7 7 7 7 7 7 7 7 7 7 4 4 4 4 4 4 4 4 7 7 7 7 7 7 7 a a a a a 3 3 3 3 3 3 3 3 3 3 3 a a a a a 7 7 7 7 7 4 4 4 4 4 4 4 4 7 7 7 7 7 7 7 7 7 7 7 7 7 7 7 7 7 7 7 7 7 7 7 7 7 7 7 7 7 7 7 7 7 7 7 7 7 7 7 7 7 7 7 7 7 7 7 7 7 7 7 7 7 7 7 7 7 7 7 7 7 7 7 7 7 7 7 7 7 7 7 7 7 7 7 7 7 7 7 7 7 7 7 7 7 7 7 7 7 7 7 7 7 7 7 7 7 7 7 
+    7 7 7 7 7 7 7 7 7 7 7 7 4 4 4 4 4 4 4 4 7 7 7 7 7 7 7 a a a a a 3 3 3 3 3 3 3 3 3 3 3 a a a a a 7 7 7 7 7 4 4 4 4 4 4 4 4 7 7 7 7 7 7 7 7 7 7 7 7 7 7 7 7 7 7 7 7 7 7 7 7 7 7 7 7 7 7 7 7 7 7 7 7 7 7 7 7 7 7 7 7 7 7 7 7 7 7 7 7 7 7 7 7 7 7 7 7 7 7 7 7 7 7 7 7 7 7 7 7 7 7 7 7 7 7 7 7 7 7 7 7 7 7 7 7 7 7 7 7 7 7 7 7 7 7 7 
+    7 7 7 7 7 7 7 7 7 7 7 7 4 4 4 4 4 4 4 4 7 7 7 7 7 7 7 a a a a a 3 3 3 3 3 3 3 3 3 3 3 a a a a a 7 7 7 7 7 4 4 4 4 4 4 4 4 7 7 7 7 7 7 7 7 7 7 7 7 7 7 7 7 7 7 7 7 7 7 7 7 7 7 7 7 7 7 7 7 7 7 7 7 7 7 7 7 7 7 7 7 7 7 7 7 7 7 7 7 7 7 7 7 7 7 7 7 7 7 7 7 7 7 7 7 7 7 7 7 7 7 7 7 7 7 7 7 7 7 7 7 7 7 7 7 7 7 7 7 7 7 7 7 7 7 7 
+    7 7 7 7 7 7 7 7 7 7 7 7 4 4 4 4 4 4 4 4 7 7 7 7 7 7 7 a a a a a 3 3 3 3 3 3 3 3 3 3 3 a a a a a 7 7 7 7 7 4 4 4 4 4 4 4 4 7 7 7 7 7 7 7 7 7 7 7 7 7 7 7 7 7 7 7 7 7 7 7 7 7 7 7 7 7 7 7 7 7 7 7 7 7 7 7 7 7 7 7 7 7 7 7 7 7 7 7 7 7 7 7 7 7 7 7 7 7 7 7 7 7 7 7 7 7 7 7 7 7 7 7 7 7 7 7 7 7 7 7 7 7 7 7 7 7 7 7 7 7 7 7 7 7 7 7 
+    7 7 7 7 7 7 7 7 7 7 7 7 4 4 4 4 4 4 4 4 7 7 7 7 7 7 7 3 3 3 3 3 3 3 3 3 3 3 3 3 3 3 3 3 3 3 3 3 7 7 7 7 7 4 4 4 4 4 4 4 4 7 7 7 7 7 7 7 7 7 7 7 7 7 7 7 7 7 7 7 7 7 7 7 7 7 7 7 7 7 7 7 7 7 7 7 7 7 7 7 7 7 7 7 7 7 7 7 7 7 7 7 7 7 7 7 7 7 7 7 7 7 7 7 7 7 7 7 7 7 7 7 7 7 7 7 7 7 7 7 7 7 7 7 7 7 7 7 7 7 7 7 7 7 7 7 7 7 7 7 
+    7 7 7 7 7 7 7 7 7 7 7 7 7 7 7 7 7 7 7 7 7 7 7 7 7 7 7 3 3 3 3 3 3 3 3 3 3 3 3 3 3 3 3 3 3 3 3 3 7 7 7 7 7 7 7 7 7 7 7 7 7 7 7 7 7 7 7 7 7 7 7 7 7 7 7 7 7 7 7 7 7 7 7 7 7 7 7 7 7 7 7 7 7 7 7 7 7 7 7 7 7 7 7 7 7 7 7 7 7 7 7 7 7 7 7 7 7 7 7 7 7 7 7 7 7 7 7 7 7 7 7 7 7 7 7 7 7 7 7 7 7 7 7 7 7 7 7 7 7 7 7 7 7 7 7 7 7 7 7 7 
+    7 7 7 7 7 7 7 7 7 7 7 7 7 7 7 7 7 7 7 7 7 7 7 7 7 7 7 3 3 3 3 3 3 3 3 3 3 3 3 3 3 3 3 3 3 3 3 3 7 7 7 7 7 7 7 7 7 7 7 7 7 7 7 7 7 7 7 7 7 7 7 7 7 7 7 7 7 7 7 7 7 7 7 7 7 7 7 7 7 7 7 7 7 7 7 7 7 7 7 7 7 7 7 7 7 7 7 7 7 7 7 7 7 7 7 7 7 7 7 7 7 7 7 7 7 7 7 7 7 7 7 7 7 7 7 7 7 7 7 7 7 7 7 7 7 7 7 7 7 7 7 7 7 7 7 7 7 7 7 7 
+    7 7 7 7 7 7 7 7 7 7 7 7 7 7 7 7 7 7 7 7 7 7 7 7 7 7 7 3 3 3 3 3 3 3 3 3 3 3 3 3 3 3 3 3 3 3 3 3 7 7 7 7 7 7 7 7 7 7 7 7 7 7 7 7 7 7 7 7 7 7 7 7 7 7 7 7 7 7 7 7 7 7 7 7 7 7 7 7 7 7 7 7 7 7 7 7 7 7 7 7 7 7 7 7 7 7 7 7 7 7 7 7 7 7 7 7 7 7 7 7 7 7 7 7 7 7 7 7 7 7 7 7 7 7 7 7 7 7 7 7 7 7 7 7 7 7 7 7 7 7 7 7 7 7 7 7 7 7 7 7 
+    7 7 7 7 7 7 7 7 7 7 7 7 7 7 7 7 7 7 7 7 7 7 7 3 3 3 3 3 3 3 3 3 3 3 3 3 3 3 3 3 3 3 3 3 3 3 3 3 3 3 3 3 3 7 7 7 7 7 7 7 7 7 7 7 7 7 7 7 7 7 7 7 7 7 7 7 7 7 7 7 7 7 7 7 7 7 7 7 7 7 7 7 7 7 7 7 7 7 7 7 7 7 7 7 7 7 7 7 7 7 7 7 7 7 7 7 7 7 7 7 7 7 7 7 7 7 7 7 7 7 7 7 7 7 7 7 7 7 7 7 7 7 7 7 7 7 7 7 7 7 7 7 7 7 7 7 7 7 7 7 
+    7 7 7 7 7 7 7 7 7 7 7 7 7 7 7 7 7 7 7 7 7 7 7 3 3 3 3 3 3 3 3 3 3 3 3 3 3 3 3 3 3 3 3 3 3 3 3 3 3 3 3 3 3 7 7 7 7 7 7 7 7 7 7 7 7 7 7 7 7 7 7 7 7 7 7 7 7 7 7 7 7 7 7 7 7 7 7 7 7 7 7 7 7 7 7 7 7 7 7 7 7 7 7 7 7 7 7 7 7 7 7 7 7 7 7 7 7 7 7 7 7 7 7 7 7 7 7 7 7 7 7 7 7 7 7 7 7 7 7 7 7 7 7 7 7 7 7 7 7 7 7 7 7 7 7 7 7 7 7 7 
+    7 7 7 7 7 7 7 7 7 7 7 7 7 7 7 7 7 7 7 7 7 7 7 3 3 3 3 3 3 3 3 3 3 3 3 3 3 3 3 3 3 3 3 3 3 3 3 3 3 3 3 3 3 7 7 7 7 7 7 7 7 7 7 7 7 7 7 7 7 7 7 7 7 7 7 7 7 7 7 7 7 7 7 7 7 7 7 7 7 7 7 7 7 7 7 7 7 7 7 7 7 7 7 7 7 7 7 7 7 7 7 7 7 7 7 7 7 7 7 7 7 7 7 7 7 7 7 7 7 7 7 7 7 7 7 7 7 7 7 7 7 7 7 7 7 7 7 7 7 7 7 7 7 7 7 7 7 7 7 7 
+    7 7 7 7 7 7 7 7 7 7 7 7 7 7 7 7 7 7 7 7 7 7 7 3 3 3 3 3 3 3 3 3 3 3 3 3 3 3 3 3 3 3 3 3 3 3 3 3 3 3 3 3 3 7 7 7 7 7 7 7 7 7 7 7 7 7 7 7 7 7 7 7 7 7 7 7 7 7 7 7 7 7 7 7 7 7 7 7 7 7 7 7 7 7 7 7 7 7 7 7 7 7 7 7 7 7 7 7 7 7 7 7 7 7 7 7 7 7 7 7 7 7 7 7 7 7 7 7 7 7 7 7 7 7 7 7 7 7 7 7 7 7 7 7 7 7 7 7 7 7 7 7 7 7 7 7 7 7 7 7 
+    7 7 7 7 7 7 7 7 7 7 7 7 7 7 7 7 7 7 3 3 3 3 3 3 3 3 3 3 3 3 3 3 3 3 3 3 3 3 3 3 3 3 3 3 3 3 3 3 3 3 3 3 3 7 7 7 7 7 7 7 7 7 7 7 7 7 7 7 7 7 7 7 7 7 7 7 7 7 7 7 7 7 7 7 7 7 7 7 7 7 7 7 7 7 7 7 7 7 7 7 7 7 7 7 7 7 7 7 7 7 7 7 7 7 7 7 7 7 7 7 7 7 7 7 7 7 7 7 7 7 7 7 7 7 7 7 7 7 7 7 7 7 7 7 7 7 7 7 7 7 7 7 7 7 7 7 7 7 7 7 
+    7 7 7 7 7 7 7 7 7 7 7 7 7 7 7 7 7 7 3 3 3 3 3 3 3 3 3 3 3 3 3 3 3 3 3 3 3 3 3 3 3 3 3 3 3 3 3 3 3 3 3 3 3 3 3 3 3 7 7 7 7 7 7 7 7 7 7 7 7 7 7 7 7 7 7 7 7 7 7 7 7 7 7 7 7 7 7 7 7 7 7 7 7 7 7 7 7 7 7 7 7 7 7 7 7 7 7 7 7 7 7 7 7 7 7 7 7 7 7 7 7 7 7 7 7 7 7 7 7 7 7 7 7 7 7 7 7 7 7 7 7 7 7 7 7 7 7 7 7 7 7 7 7 7 7 7 7 7 7 7 
+    7 7 7 7 7 7 7 7 7 7 7 7 7 7 7 7 7 7 3 3 3 3 3 3 3 3 3 3 3 3 3 3 3 3 3 3 3 3 3 3 3 3 3 3 3 3 3 3 3 3 3 3 3 3 3 3 3 7 7 7 7 7 7 7 7 7 7 7 7 7 7 7 7 7 7 7 7 7 7 7 7 7 7 7 7 7 7 7 7 7 7 7 7 7 7 7 7 7 7 7 7 7 7 7 7 7 7 7 7 7 7 7 7 7 7 7 7 7 7 7 7 7 7 7 7 7 7 7 7 7 7 7 7 7 7 7 7 7 7 7 7 7 7 7 7 7 7 7 7 7 7 7 7 7 7 7 7 7 7 7 
+    7 7 7 7 7 7 7 7 7 7 7 7 7 7 7 7 7 7 3 3 3 3 3 3 3 3 3 3 3 3 3 3 3 3 3 3 3 3 3 3 3 3 3 3 3 3 3 3 3 3 3 3 3 3 3 3 3 7 7 7 7 7 7 7 7 7 7 7 7 7 7 7 7 7 7 7 7 7 7 7 7 7 7 7 7 7 7 7 7 7 7 7 7 7 7 7 7 7 7 7 7 7 7 7 7 7 7 7 7 7 7 7 7 7 7 7 7 7 7 7 7 7 7 7 7 7 7 7 7 7 7 7 7 7 7 7 7 7 7 7 7 7 7 7 7 7 7 7 7 7 7 7 7 7 7 7 7 7 7 7 
+    7 7 7 7 7 7 7 7 7 7 7 7 7 7 7 7 7 7 3 3 3 3 3 3 3 3 3 3 3 3 3 3 3 3 3 3 3 3 3 3 3 3 3 3 3 3 3 3 3 3 3 3 3 3 3 3 3 7 7 7 7 7 7 7 7 7 7 7 7 7 7 7 7 7 7 7 7 7 7 7 7 7 7 7 7 7 7 7 7 7 7 7 7 7 7 7 7 7 7 7 7 7 7 7 7 7 7 7 7 7 7 7 7 7 7 7 7 7 7 7 7 7 7 7 7 7 7 7 7 7 7 7 7 7 7 7 7 7 7 7 7 7 7 7 7 7 7 7 7 7 7 7 7 7 7 7 7 7 7 7 
+    7 7 7 7 7 7 7 7 7 7 7 7 7 7 7 7 7 7 3 3 3 3 3 3 3 3 3 3 3 3 3 3 3 3 3 3 3 3 3 3 3 3 3 3 3 3 3 3 3 3 3 3 3 3 3 3 3 7 7 7 7 7 7 7 7 7 7 7 7 7 7 7 7 7 7 7 7 7 7 7 7 7 7 7 7 7 7 7 7 7 7 7 7 7 7 7 7 7 7 7 7 7 7 7 7 7 7 7 7 7 7 7 7 7 7 7 7 7 7 7 7 7 7 7 7 7 7 7 7 7 7 7 7 7 7 7 7 7 7 7 7 7 7 7 7 7 7 7 7 7 7 7 7 7 7 7 7 7 7 7 
+    7 7 7 7 7 7 7 7 7 7 7 7 7 7 7 7 7 7 3 3 3 3 3 3 3 3 3 3 3 3 3 3 3 3 3 3 3 3 3 3 3 3 3 3 3 3 3 3 3 3 3 3 3 3 3 3 3 7 7 7 7 7 7 7 7 7 7 7 7 7 7 7 7 7 7 7 7 7 7 7 7 7 7 7 7 7 7 7 7 7 7 7 7 7 7 7 7 7 7 7 7 7 7 7 7 7 7 7 7 7 7 7 7 7 7 7 7 7 7 7 7 7 7 7 7 7 7 7 7 7 7 7 7 7 7 7 7 7 7 7 7 7 7 7 7 7 7 7 7 7 7 7 7 7 7 7 7 7 7 7 
+    7 7 7 7 7 7 7 7 7 7 7 7 7 7 7 7 7 7 7 7 7 7 7 7 7 7 7 7 4 4 4 4 4 7 7 7 7 7 7 7 7 7 7 7 4 4 4 4 4 7 7 7 7 7 7 7 7 7 7 7 7 7 7 7 7 7 7 7 7 7 7 7 7 7 7 7 7 7 7 7 7 7 7 7 7 7 7 7 7 7 7 7 7 7 7 7 7 7 7 7 7 7 7 7 7 7 7 7 7 7 7 7 7 7 7 7 7 7 7 7 7 7 7 7 7 7 7 7 7 7 7 7 7 7 7 7 7 7 7 7 7 7 7 7 7 7 7 7 7 7 7 7 7 7 7 7 7 7 7 7 
+    7 7 7 7 7 7 7 7 7 7 7 7 7 7 7 7 7 7 7 7 7 7 7 7 7 7 7 7 4 4 4 4 4 7 7 7 7 7 7 7 7 7 7 7 4 4 4 4 4 7 7 7 7 7 7 7 7 7 7 7 7 7 7 7 7 7 7 7 7 7 7 7 7 7 7 7 7 7 7 7 7 7 7 7 7 7 7 7 7 7 7 7 7 7 7 7 7 7 7 7 7 7 7 7 7 7 7 7 7 7 7 7 7 7 7 7 7 7 7 7 7 7 7 7 7 7 7 7 7 7 7 7 7 7 7 7 7 7 7 7 7 7 7 7 7 7 7 7 7 7 7 7 7 7 7 7 7 7 7 7 
+    7 7 7 7 7 7 7 7 7 7 7 7 7 7 7 7 7 7 7 7 7 7 7 7 7 7 7 7 4 4 4 4 4 7 7 7 7 7 7 7 7 7 7 7 4 4 4 4 4 7 7 7 7 7 7 7 7 7 7 7 7 7 7 7 7 7 7 7 7 7 7 7 7 7 7 7 7 7 7 7 7 7 7 7 7 7 7 7 7 7 7 7 7 7 7 7 7 7 7 7 7 7 7 7 7 7 7 7 7 7 7 7 7 7 7 7 7 7 7 7 7 7 7 7 7 7 7 7 7 7 7 7 7 7 7 7 7 7 7 7 7 7 7 7 7 7 7 7 7 7 7 7 7 7 7 7 7 7 7 7 
+    7 7 7 7 7 7 7 7 7 7 7 7 7 7 7 7 7 7 7 7 7 7 7 7 7 7 7 7 4 4 4 4 4 7 7 7 7 7 7 7 7 7 7 7 4 4 4 4 4 7 7 7 7 7 7 7 7 7 7 7 7 7 7 7 7 7 7 7 7 7 7 7 7 7 7 7 7 7 7 7 7 7 7 7 7 7 7 7 7 7 7 7 7 7 7 7 7 7 7 7 7 7 7 7 7 7 7 7 7 7 7 7 7 7 7 7 7 7 7 7 7 7 7 7 7 7 7 7 7 7 7 7 7 7 7 7 7 7 7 7 7 7 7 7 7 7 7 7 7 7 7 7 7 7 7 7 7 7 7 7 
+    7 7 7 7 7 7 7 7 7 7 7 7 7 7 7 7 7 7 7 7 7 7 7 7 7 7 7 7 4 4 4 4 4 7 7 7 7 7 7 7 7 7 7 7 4 4 4 4 4 7 7 7 7 7 7 7 7 7 7 7 7 7 7 7 7 7 7 7 7 7 7 7 7 7 7 7 7 7 7 7 7 7 7 7 7 7 7 7 7 7 7 7 7 7 7 7 7 7 7 7 7 7 7 7 7 7 7 7 7 7 7 7 7 7 7 7 7 7 7 7 7 7 7 7 7 7 7 7 7 7 7 7 7 7 7 7 7 7 7 7 7 7 7 7 7 7 7 7 7 7 7 7 7 7 7 7 7 7 7 7 
+    7 7 7 7 7 7 7 7 7 7 7 7 7 7 7 7 7 7 7 7 7 7 7 7 7 7 7 7 4 4 4 4 4 7 7 7 7 7 7 7 7 7 7 7 4 4 4 4 4 7 7 7 7 7 7 7 7 7 7 7 7 7 7 7 7 7 7 7 7 7 7 7 7 7 7 7 7 7 7 7 7 7 7 7 7 7 7 7 7 7 7 7 7 7 7 7 7 7 7 7 7 7 7 7 7 7 7 7 7 7 7 7 7 7 7 7 7 7 7 7 7 7 7 7 7 7 7 7 7 7 7 7 7 7 7 7 7 7 7 7 7 7 7 7 7 7 7 7 7 7 7 7 7 7 7 7 7 7 7 7 
+    7 7 7 7 7 7 7 7 7 7 7 7 7 7 7 7 7 7 7 7 7 7 7 7 7 7 7 7 4 4 4 4 4 7 7 7 7 7 7 7 7 7 7 7 4 4 4 4 4 7 7 7 7 7 7 7 7 7 7 7 7 7 7 7 7 7 7 7 7 7 7 7 7 7 7 7 7 7 7 7 7 7 7 7 7 7 7 7 7 7 7 7 7 7 7 7 7 7 7 7 7 7 7 7 7 7 7 7 7 7 7 7 7 7 7 7 7 7 7 7 7 7 7 7 7 7 7 7 7 7 7 7 7 7 7 7 7 7 7 7 7 7 7 7 7 7 7 7 7 7 7 7 7 7 7 7 7 7 7 7 
+    7 7 7 7 7 7 7 7 7 7 7 7 7 7 7 7 7 7 7 7 7 7 7 7 7 7 7 7 4 4 4 4 4 7 7 7 7 7 7 7 7 7 7 7 4 4 4 4 4 7 7 7 7 7 7 7 7 7 7 7 7 7 7 7 7 7 7 7 7 7 7 7 7 7 7 7 7 7 7 7 7 7 7 7 7 7 7 7 7 7 7 7 7 7 7 7 7 7 7 7 7 7 7 7 7 7 7 7 7 7 7 7 7 7 7 7 7 7 7 7 7 7 7 7 7 7 7 7 7 7 7 7 7 7 7 7 7 7 7 7 7 7 7 7 7 7 7 7 7 7 7 7 7 7 7 7 7 7 7 7 
+    7 7 7 7 7 7 7 7 7 7 7 7 7 7 7 7 7 7 7 7 7 7 7 7 7 7 7 7 4 4 4 4 4 7 7 7 7 7 7 7 7 7 7 7 4 4 4 4 4 7 7 7 7 7 7 7 7 7 7 7 7 7 7 7 7 7 7 7 7 7 7 7 7 7 7 7 7 7 7 7 7 7 7 7 7 7 7 7 7 7 7 7 7 7 7 7 7 7 7 7 7 7 7 7 7 7 7 7 7 7 7 7 7 7 7 7 7 7 7 7 7 7 7 7 7 7 7 7 7 7 7 7 7 7 7 7 7 7 7 7 7 7 7 7 7 7 7 7 7 7 7 7 7 7 7 7 7 7 7 7 
+    7 7 7 7 7 7 7 7 7 7 7 7 7 7 7 7 7 7 7 7 7 7 7 7 7 7 7 7 4 4 4 4 4 7 7 7 7 7 7 7 7 7 7 7 4 4 4 4 4 7 7 7 7 7 7 7 7 7 7 7 7 7 7 7 7 7 7 7 7 7 7 7 7 7 7 7 7 7 7 7 7 7 7 7 7 7 7 7 7 7 7 7 7 7 7 7 7 7 7 7 7 7 7 7 7 7 7 7 7 7 7 7 7 7 7 7 7 7 7 7 7 7 7 7 7 7 7 7 7 7 7 7 7 7 7 7 7 7 7 7 7 7 7 7 7 7 7 7 7 7 7 7 7 7 7 7 7 7 7 7 
+    7 7 7 7 7 7 7 7 7 7 7 7 7 7 7 7 7 7 7 7 7 7 7 7 7 7 7 7 4 4 4 4 4 7 7 7 7 7 7 7 7 7 7 7 4 4 4 4 4 7 7 7 7 7 7 7 7 7 7 7 7 7 7 7 7 7 7 7 7 7 7 7 7 7 7 7 7 7 7 7 7 7 7 7 7 7 7 7 7 7 7 7 7 7 7 7 7 7 7 7 7 7 7 7 7 7 7 7 7 7 7 7 7 7 7 7 7 7 7 7 7 7 7 7 7 7 7 7 7 7 7 7 7 7 7 7 7 7 7 7 7 7 7 7 7 7 7 7 7 7 7 7 7 7 7 7 7 7 7 7 
+    7 7 7 7 7 7 7 7 7 7 7 7 7 7 7 7 7 7 7 7 7 7 7 7 7 7 7 7 4 4 4 4 4 7 7 7 7 7 7 7 7 7 7 7 4 4 4 4 4 7 7 7 7 7 7 7 7 7 7 7 7 7 7 7 7 7 7 7 7 7 7 7 7 7 7 7 7 7 7 7 7 7 7 7 7 7 7 7 7 7 7 7 7 7 7 7 7 7 7 7 7 7 7 7 7 7 7 7 7 7 7 7 7 7 7 7 7 7 7 7 7 7 7 7 7 7 7 7 7 7 7 7 7 7 7 7 7 7 7 7 7 7 7 7 7 7 7 7 7 7 7 7 7 7 7 7 7 7 7 7 
+    7 7 7 7 7 7 7 7 7 7 7 7 7 7 7 7 7 7 7 7 7 7 7 7 7 7 7 7 4 4 4 4 4 7 7 7 7 7 7 7 7 7 7 7 4 4 4 4 4 7 7 7 7 7 7 7 7 7 7 7 7 7 7 7 7 7 7 7 7 7 7 7 7 7 7 7 7 7 7 7 7 7 7 7 7 7 7 7 7 7 7 7 7 7 7 7 7 7 7 7 7 7 7 7 7 7 7 7 7 7 7 7 7 7 7 7 7 7 7 7 7 7 7 7 7 7 7 7 7 7 7 7 7 7 7 7 7 7 7 7 7 7 7 7 7 7 7 7 7 7 7 7 7 7 7 7 7 7 7 7 
+    7 7 7 7 7 7 7 7 7 7 7 7 7 7 7 7 7 7 7 7 7 7 7 7 3 3 3 3 3 3 3 3 3 7 7 7 7 7 7 7 7 7 7 7 3 3 3 3 3 3 3 3 7 7 7 7 7 7 7 7 7 7 7 7 7 7 7 7 7 7 7 7 7 7 7 7 7 7 7 7 7 7 7 7 7 7 7 7 7 7 7 7 7 7 7 7 7 7 7 7 7 7 7 7 7 7 7 7 7 7 7 7 7 7 7 7 7 7 7 7 7 7 7 7 7 7 7 7 7 7 7 7 7 7 7 7 7 7 7 7 7 7 7 7 7 7 7 7 7 7 7 7 7 7 7 7 7 7 7 7 
+    7 7 7 7 7 7 7 7 7 7 7 7 7 7 7 7 7 7 7 7 7 7 7 7 3 3 3 3 3 3 3 3 3 7 7 7 7 7 7 7 7 7 7 7 3 3 3 3 3 3 3 3 7 7 7 7 7 7 7 7 7 7 7 7 7 7 7 7 7 7 7 7 7 7 7 7 7 7 7 7 7 7 7 7 7 7 7 7 7 7 7 7 7 7 7 7 7 7 7 7 7 7 7 7 7 7 7 7 7 7 7 7 7 7 7 7 7 7 7 7 7 7 7 7 7 7 7 7 7 7 7 7 7 7 7 7 7 7 7 7 7 7 7 7 7 7 7 7 7 7 7 7 7 7 7 7 7 7 7 7 
+    7 7 7 7 7 7 7 7 7 7 7 7 7 7 7 7 7 7 7 7 7 7 7 7 3 3 3 3 3 3 3 3 3 7 7 7 7 7 7 7 7 7 7 7 3 3 3 3 3 3 3 3 7 7 7 7 7 7 7 7 7 7 7 7 7 7 7 7 7 7 7 7 7 7 7 7 7 7 7 7 7 7 7 7 7 7 7 7 7 7 7 7 7 7 7 7 7 7 7 7 7 7 7 7 7 7 7 7 7 7 7 7 7 7 7 7 7 7 7 7 7 7 7 7 7 7 7 7 7 7 7 7 7 7 7 7 7 7 7 7 7 7 7 7 7 7 7 7 7 7 7 7 7 7 7 7 7 7 7 7 
+    7 7 7 7 7 7 7 7 7 7 7 7 7 7 7 7 7 7 7 7 7 7 7 7 3 3 3 3 3 3 3 3 3 7 7 7 7 7 7 7 7 7 7 7 3 3 3 3 3 3 3 3 7 7 7 7 7 7 7 7 7 7 7 7 7 7 7 7 7 7 7 7 7 7 7 7 7 7 7 7 7 7 7 7 7 7 7 7 7 7 7 7 7 7 7 7 7 7 7 7 7 7 7 7 7 7 7 7 7 7 7 7 7 7 7 7 7 7 7 7 7 7 7 7 7 7 7 7 7 7 7 7 7 7 7 7 7 7 7 7 7 7 7 7 7 7 7 7 7 7 7 7 7 7 7 7 7 7 7 7 
+    7 7 7 7 7 7 7 7 7 7 7 7 7 7 7 7 7 7 7 7 7 7 7 7 3 3 3 3 3 3 3 3 3 7 7 7 7 7 7 7 7 7 7 7 3 3 3 3 3 3 3 3 7 7 7 7 7 7 7 7 7 7 7 7 7 7 7 7 7 7 7 7 7 7 7 7 7 7 7 7 7 7 7 7 7 7 7 7 7 7 7 7 7 7 7 7 7 7 7 7 7 7 7 7 7 7 7 7 7 7 7 7 7 7 7 7 7 7 7 7 7 7 7 7 7 7 7 7 7 7 7 7 7 7 7 7 7 7 7 7 7 7 7 7 7 7 7 7 7 7 7 7 7 7 7 7 7 7 7 7 
     7 7 7 7 7 7 7 7 7 7 7 7 7 7 7 7 7 7 7 7 7 7 7 7 7 7 7 7 7 7 7 7 7 7 7 7 7 7 7 7 7 7 7 7 7 7 7 7 7 7 7 7 7 7 7 7 7 7 7 7 7 7 7 7 7 7 7 7 7 7 7 7 7 7 7 7 7 7 7 7 7 7 7 7 7 7 7 7 7 7 7 7 7 7 7 7 7 7 7 7 7 7 7 7 7 7 7 7 7 7 7 7 7 7 7 7 7 7 7 7 7 7 7 7 7 7 7 7 7 7 7 7 7 7 7 7 7 7 7 7 7 7 7 7 7 7 7 7 7 7 7 7 7 7 7 7 7 7 7 7 
     7 7 7 7 7 7 7 7 7 7 7 7 7 7 7 7 7 7 7 7 7 7 7 7 7 7 7 7 7 7 7 7 7 7 7 7 7 7 7 7 7 7 7 7 7 7 7 7 7 7 7 7 7 7 7 7 7 7 7 7 7 7 7 7 7 7 7 7 7 7 7 7 7 7 7 7 7 7 7 7 7 7 7 7 7 7 7 7 7 7 7 7 7 7 7 7 7 7 7 7 7 7 7 7 7 7 7 7 7 7 7 7 7 7 7 7 7 7 7 7 7 7 7 7 7 7 7 7 7 7 7 7 7 7 7 7 7 7 7 7 7 7 7 7 7 7 7 7 7 7 7 7 7 7 7 7 7 7 7 7 
     7 7 7 7 7 7 7 7 7 7 7 7 7 7 7 7 7 7 7 7 7 7 7 7 7 7 7 7 7 7 7 7 7 7 7 7 7 7 7 7 7 7 7 7 7 7 7 7 7 7 7 7 7 7 7 7 7 7 7 7 7 7 7 7 7 7 7 7 7 7 7 7 7 7 7 7 7 7 7 7 7 7 7 7 7 7 7 7 7 7 7 7 7 7 7 7 7 7 7 7 7 7 7 7 7 7 7 7 7 7 7 7 7 7 7 7 7 7 7 7 7 7 7 7 7 7 7 7 7 7 7 7 7 7 7 7 7 7 7 7 7 7 7 7 7 7 7 7 7 7 7 7 7 7 7 7 7 7 7 7 
